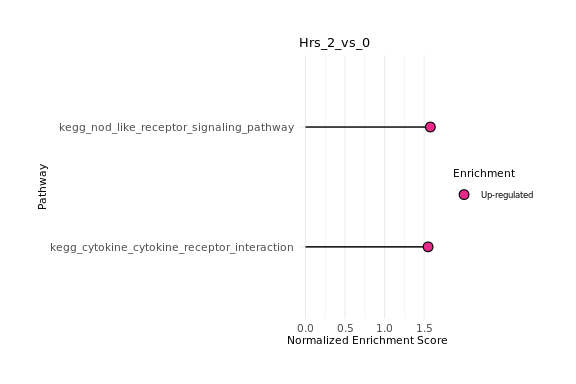
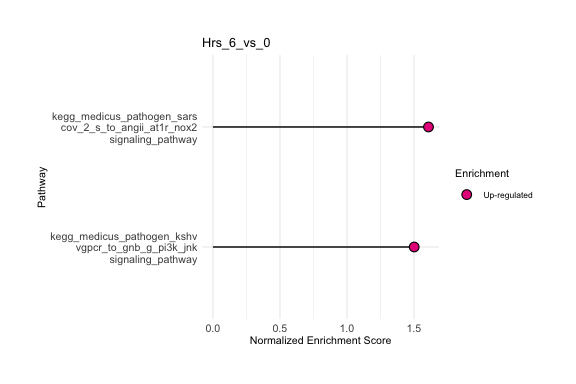
# version 0.0.38:     - Updated to work with latest version of msigdbr

diff --git a/README.md b/README.md
@@ -79,45 +79,55 @@ For others platforms, check out the HotgenesUniversal() function.
 ## Convert DESeq2 analysis into a Hotgenes Object
 
 ``` r
- require(Hotgenes)
+library("airway")
+library("DESeq2")
+library(Hotgenes)
 
-  # incase you wanted to include aliases for your genes
-  # requires a "Feature" column that contains gene names in expression matrix
-  dbCon <- org.Hs.eg.db::org.Hs.eg_dbconn()
-  sqlQuery <- "SELECT * FROM ENSEMBL, gene_info WHERE ENSEMBL._id == gene_info._id;"
-
-  ensembl_Symbol <- DBI::dbGetQuery(dbCon, sqlQuery) %>%
-  dplyr::select(c("Feature" = "symbol", "ensembl_id"))
+# load the data
+data("airway")
+se <- airway
 
 
-  # HotgenesDEseq2 ----------------------------------------------------------
-  require(DESeq2)
-  
-  # loading example data
-  dds_con_dir <- system.file("extdata",
-    "dds_con.Rdata",
-    package = "Hotgenes",
-    mustWork = TRUE
-  )
-  load(dds_con_dir)
+# in case you wanted to include aliases for your genes
+# requires a "Feature" column that contains gene names in expression matrix
+dbCon <- org.Hs.eg.db::org.Hs.eg_dbconn()
+sqlQuery <- "SELECT * FROM ENSEMBL, gene_info WHERE ENSEMBL._id == gene_info._id;"
 
-  # Example Expression data and coldata
-  cts <- DESeq2::counts(dds_con) %>% as.data.frame()
-  Design <- SummarizedExperiment::colData(dds_con) %>%
-    base::as.data.frame() %>%
-    dplyr::select_if(is.factor) %>%
-    dplyr::mutate(Time = as.numeric(levels(.data$Hrs))[.data$Hrs])
+ensembl_Symbol <- DBI::dbGetQuery(dbCon, sqlQuery) %>%
+  dplyr::select(c("Feature" = "ensembl_id", "symbol")) %>% 
+  tibble::tibble()
 
-  # set up DESeq2
-  model_DESeq <- eval(~ sh * Hrs)
+ensembl_Symbol
+```
 
-  dds <- DESeq2::DESeqDataSetFromMatrix(
-    countData = cts,
-    colData = Design,
-    design = model_DESeq
-  )
+    ## # A tibble: 45,689 × 2
+    ##   Feature         symbol
+    ##   <chr>           <chr> 
+    ## 1 ENSG00000121410 A1BG  
+    ## 2 ENSG00000175899 A2M   
+    ## 3 ENSG00000291190 A2MP1 
+    ## 4 ENSG00000171428 NAT1  
+    ## 5 ENSG00000156006 NAT2  
+    ## # ℹ 45,684 more rows
 
-  dds <- DESeq2::DESeq(dds)
+``` r
+# prepare DESeq2 object and model -----------------------------------------
+ddsSE <- DESeq2::DESeqDataSet(se, design = ~ cell + dex)
+ddsSE
+```
+
+    ## class: DESeqDataSet 
+    ## dim: 63677 8 
+    ## metadata(2): '' version
+    ## assays(1): counts
+    ## rownames(63677): ENSG00000000003 ENSG00000000005 ... ENSG00000273492 ENSG00000273493
+    ## rowData names(10): gene_id gene_name ... seq_coord_system symbol
+    ## colnames(8): SRR1039508 SRR1039509 ... SRR1039520 SRR1039521
+    ## colData names(9): SampleName cell ... Sample BioSample
+
+``` r
+# run DESeq2 analysis 
+dds <- DESeq2::DESeq(ddsSE)
 ```
 
     ## estimating size factors
@@ -133,21 +143,41 @@ For others platforms, check out the HotgenesUniversal() function.
     ## fitting model and testing
 
 ``` r
-  # Convert to Hotgenes Object
-
-  dds_Hotgenes <- HotgenesDEseq2(
-    DEseq2_object = dds,
-    lfcShrink_type = "apeglm",
-    contrasts = "sh_EWS_vs_Ctrl", 
-    ExpressionData = "vsd", 
-    Mapper = ensembl_Symbol
-  )
+# Convert to Hotgenes object
+Hotgenes_airway <- Hotgenes::HotgenesDEseq2(
+  DEseq2_object = dds, 
+  lfcShrink_type = "apeglm", 
+  # optional
+  Mapper = ensembl_Symbol,
+  ExpressionData = "vsd" )
 ```
 
     ## using 'apeglm' for LFC shrinkage. If used in published research, please cite:
     ##     Zhu, A., Ibrahim, J.G., Love, M.I. (2018) Heavy-tailed prior distributions for
     ##     sequence count data: removing the noise and preserving large differences.
     ##     Bioinformatics. https://doi.org/10.1093/bioinformatics/bty895
+
+    ## using 'apeglm' for LFC shrinkage. If used in published research, please cite:
+    ##     Zhu, A., Ibrahim, J.G., Love, M.I. (2018) Heavy-tailed prior distributions for
+    ##     sequence count data: removing the noise and preserving large differences.
+    ##     Bioinformatics. https://doi.org/10.1093/bioinformatics/bty895
+    ## using 'apeglm' for LFC shrinkage. If used in published research, please cite:
+    ##     Zhu, A., Ibrahim, J.G., Love, M.I. (2018) Heavy-tailed prior distributions for
+    ##     sequence count data: removing the noise and preserving large differences.
+    ##     Bioinformatics. https://doi.org/10.1093/bioinformatics/bty895
+    ## using 'apeglm' for LFC shrinkage. If used in published research, please cite:
+    ##     Zhu, A., Ibrahim, J.G., Love, M.I. (2018) Heavy-tailed prior distributions for
+    ##     sequence count data: removing the noise and preserving large differences.
+    ##     Bioinformatics. https://doi.org/10.1093/bioinformatics/bty895
+
+``` r
+# shiny Hotgenes ----------------------------------------------------------
+if(FALSE){
+# switch FALSE to TRUE   
+Hotgenes::Shiny_Hotgenes(Hotgenes_airway)
+  
+}
+```
 
 ## Convert limma DE analysis into Hotgenes Object
 
@@ -471,13 +501,12 @@ fit_Hotgenes %>%
     ## [1] "NFE2L2" "KEAP1"  "PDGFA"  "HDAC4"  "OXER1"  "GAPDH"  "MEF2C" 
     ## 
     ## $Intsect$Hrs_6_vs_0
-    ##  [1] "CXCL5"  "STAT2"  "NR3C1"  "MAP3K1" "HSPB2"  "MAPK8"  "DAXX"   "MKNK1"  "MAP2K6" "IL1B"   "BCL6"   "TLR3"  
-    ## [13] "GRB2"   "IL6R"   "IL15"   "CREB1"  "IL1RN"  "RELA"   "IFIT3"  "MAP3K5" "TGFB3"  "TGFB2"  "IL1A"   "CCL20" 
-    ## [25] "PGK1"   "MAPK3" 
+    ##  [1] "CXCL5"  "STAT2"  "NR3C1"  "MAP3K1" "HSPB2"  "MAPK8"  "DAXX"   "MKNK1"  "MAP2K6" "IL1B"   "BCL6"   "TLR3"   "GRB2"  
+    ## [14] "IL6R"   "IL15"   "CREB1"  "IL1RN"  "RELA"   "IFIT3"  "MAP3K5" "TGFB3"  "TGFB2"  "IL1A"   "CCL20"  "PGK1"   "MAPK3" 
     ## 
     ## $Intsect$sh_EWS_vs_Ctrl
-    ##  [1] "HIF1A"  "C3"     "RAC1"   "GNB1"   "TUBB"   "BCL2L1" "CSF1"   "PTGER3" "ROCK2"  "MX2"    "HMGN1"  "CLTC"  
-    ## [13] "GNAQ"   "LY96"   "CD40"   "CFD"    "HRAS"   "RHOA"   "HPRT1"  "TCF4"   "MX1"    "OAS2"   "LTB4R2"
+    ##  [1] "HIF1A"  "C3"     "RAC1"   "GNB1"   "TUBB"   "BCL2L1" "CSF1"   "PTGER3" "ROCK2"  "MX2"    "HMGN1"  "CLTC"   "GNAQ"  
+    ## [14] "LY96"   "CD40"   "CFD"    "HRAS"   "RHOA"   "HPRT1"  "TCF4"   "MX1"    "OAS2"   "LTB4R2"
     ## 
     ## $Intsect$`Hrs_2_vs_0:Hrs_6_vs_0`
     ##  [1] "CXCL8"   "TNFAIP3" "CXCL1"   "IL11"    "PTGS2"   "DDIT3"   "IFIT2"   "TGFBR1"  "MAFF"    "CXCR4"   "MAFK"   
@@ -495,8 +524,8 @@ fit_Hotgenes %>%
     ## 
     ## 
     ## $Names
-    ## [1] "Hrs_2_vs_0:Hrs_6_vs_0"                "sh_EWS_vs_Ctrl:Hrs_2_vs_0"           
-    ## [3] "sh_EWS_vs_Ctrl:Hrs_6_vs_0"            "sh_EWS_vs_Ctrl:Hrs_2_vs_0:Hrs_6_vs_0"
+    ## [1] "Hrs_2_vs_0:Hrs_6_vs_0"                "sh_EWS_vs_Ctrl:Hrs_2_vs_0"            "sh_EWS_vs_Ctrl:Hrs_6_vs_0"           
+    ## [4] "sh_EWS_vs_Ctrl:Hrs_2_vs_0:Hrs_6_vs_0"
 
 ### Identify key features using PCA and clustering
 
@@ -598,6 +627,8 @@ DEphe(fit_Hotgenes,
       annotations = c("Hrs", "sh"))
 ```
 
+![](man/figures/README-heatmap_1-1.png)<!-- -->
+
 ``` r
 # change labels to ensembl_id
 DEphe(fit_Hotgenes,
@@ -610,13 +641,15 @@ DEphe(fit_Hotgenes,
       annotations = c("Hrs", "sh"))
 ```
 
+![](man/figures/README-heatmap_2-1.png)<!-- -->
+
 ### Run GSEA using msigdbr genesets
 
 ``` r
 # get geneset
 H_paths <- msigdbr_wrapper(
     species = "human",
-    set = "CP:KEGG",
+    set = "CP:KEGG_MEDICUS",
     gene_col = "gene_symbol"
   )
 
@@ -624,7 +657,7 @@ H_paths <- msigdbr_wrapper(
   InputRanks <- fit_Hotgenes %>%
     DE(
       Report = "Ranks",
-      contrasts = "Hrs_2_vs_0",
+      contrasts = "Hrs_6_vs_0",
       Rank_name = "Feature",
       padj_cut = 0.1
     )
@@ -640,88 +673,80 @@ H_paths <- msigdbr_wrapper(
   )
 ```
 
-    ## [1] "Hrs_2_vs_0"
-    ##   |                                                                                                                    |                                                                                                            |   0%  |                                                                                                                    |======================================================                                                      |  50%  |                                                                                                                    |============================================================================================================| 100%
+    ## [1] "Hrs_6_vs_0"
+    ##   |                                                                                                                         |                                                                                                                 |   0%  |                                                                                                                         |========================================================                                                         |  50%  |                                                                                                                         |=================================================================================================================| 100%
 
 ``` r
   # Get details for all
   Out_GSEA %>%
     fgsea_Results(
-      contrasts = "Hrs_2_vs_0",
+      contrasts = "Hrs_6_vs_0",
       padj_cut = 0.2,
       mode = "D"
     )
 ```
 
-    ## $Hrs_2_vs_0
-    ## # A tibble: 5 × 9
-    ##   pathway                                        pval   padj log2err    ES   NES  size leadingEdge sign_NES
-    ##   <chr>                                         <dbl>  <dbl>   <dbl> <dbl> <dbl> <int> <list>         <dbl>
-    ## 1 kegg_nod_like_receptor_signaling_pathway    0.00969 0.0737   0.381 0.770  1.58     9 <chr [6]>          1
-    ## 2 kegg_cytokine_cytokine_receptor_interaction 0.0184  0.0737   0.352 0.708  1.55    14 <chr [9]>          1
-    ## 3 kegg_chemokine_signaling_pathway            0.0517  0.135    0.219 0.734  1.44     7 <chr [7]>          1
-    ## 4 kegg_jak_stat_signaling_pathway             0.0779  0.135    0.181 0.748  1.39     5 <chr [2]>          1
-    ## 5 kegg_toll_like_receptor_signaling_pathway   0.0844  0.135    0.174 0.742  1.38     5 <chr [3]>          1
+    ## $Hrs_6_vs_0
+    ## # A tibble: 3 × 9
+    ##   pathway                                                        pval   padj log2err    ES   NES  size leadingEdge sign_NES
+    ##   <chr>                                                         <dbl>  <dbl>   <dbl> <dbl> <dbl> <int> <list>         <dbl>
+    ## 1 kegg_medicus_pathogen_sars_cov_2_s_to_angii_at1r_nox2_signa… 0.0116 0.0809   0.381 0.767  1.61     7 <chr [4]>          1
+    ## 2 kegg_medicus_pathogen_kshv_vgpcr_to_gnb_g_pi3k_jnk_signalin… 0.0412 0.128    0.322 0.776  1.50     5 <chr [4]>          1
+    ## 3 kegg_medicus_pathogen_hsv_gd_to_hvem_nfkb_signaling_pathway  0.0549 0.128    0.228 0.739  1.43     5 <chr [4]>          1
 
 ``` r
   # Or for one
   Out_GSEA %>%
     fgsea_Results(
-      contrasts = "Hrs_2_vs_0",
+      contrasts = "Hrs_6_vs_0",
       padj_cut = 0.2,
       mode = "leadingEdge"
     )
 ```
 
-    ## $Hrs_2_vs_0
-    ## $Hrs_2_vs_0$kegg_nod_like_receptor_signaling_pathway
-    ## [1] "IL6"     "CXCL8"   "TNFAIP3" "CXCL1"   "CCL2"    "CXCL2"  
+    ## $Hrs_6_vs_0
+    ## $Hrs_6_vs_0$kegg_medicus_pathogen_sars_cov_2_s_to_angii_at1r_nox2_signaling_pathway
+    ## [1] "CXCL8" "CCL2"  "IL6"   "NFKB1"
     ## 
-    ## $Hrs_2_vs_0$kegg_cytokine_cytokine_receptor_interaction
-    ## [1] "IL6"    "CXCL8"  "CXCL1"  "IL11"   "CCL2"   "CXCL3"  "CXCL2"  "TGFBR1" "CXCR4" 
+    ## $Hrs_6_vs_0$kegg_medicus_pathogen_kshv_vgpcr_to_gnb_g_pi3k_jnk_signaling_pathway
+    ## [1] "CXCL8" "IL6"   "NFKB1" "MAPK8"
     ## 
-    ## $Hrs_2_vs_0$kegg_chemokine_signaling_pathway
-    ## [1] "CXCL8" "CXCL1" "CCL2"  "CXCL3" "CXCL2" "CXCR4" "NFKB1"
-    ## 
-    ## $Hrs_2_vs_0$kegg_jak_stat_signaling_pathway
-    ## [1] "IL6"  "IL11"
-    ## 
-    ## $Hrs_2_vs_0$kegg_toll_like_receptor_signaling_pathway
-    ## [1] "IL6"   "CXCL8" "JUN"
+    ## $Hrs_6_vs_0$kegg_medicus_pathogen_hsv_gd_to_hvem_nfkb_signaling_pathway
+    ## [1] "CCL2"  "NFKB1" "BIRC2" "TRAF2"
 
 ``` r
   # Generate a summary plot
   Out_GSEA %>%
     GSEA_Plots(
-      contrasts = "Hrs_2_vs_0",
+      contrasts = "Hrs_6_vs_0",
       padj_cut = 0.2,
       width = 30,
       Topn = 2
     )
 ```
 
-    ## $Hrs_2_vs_0
+    ## $Hrs_6_vs_0
 
 ![](man/figures/README-GSEA_1-1.png)<!-- -->
 
 ``` r
   # plotEnrichment_
   plotEnrichment_(
-    Out_GSEA, "Hrs_2_vs_0",
-    "kegg_nod_like_receptor_signaling_pathway"
+    Out_GSEA, "Hrs_6_vs_0",
+    "kegg_medicus_pathogen_sars_cov_2_s_to_angii_at1r_nox2_signaling_pathway"
   )
 ```
 
-    ## leading edge genes for kegg_nod_like_receptor_signaling_pathway
+    ## leading edge genes for kegg_medicus_pathogen_sars_cov_2_s_to_angii_at1r_nox2_signaling_pathway
 
-    ## c("IL6", "CXCL8", "TNFAIP3", "CXCL1", "CCL2", "CXCL2")
+    ## c("CXCL8", "CCL2", "IL6", "NFKB1")
 
 ![](man/figures/README-GSEA_1-2.png)<!-- -->
 
 ### Or use the HotgeneSets() function for gsva
 
 ``` r
-choice_set <- "CP:KEGG"
+choice_set <- "CP:KEGG_MEDICUS"
 choice_id <- "gene_symbol"
   
 gsList <- msigdbr_wrapper(
@@ -744,12 +769,14 @@ gsList <- msigdbr_wrapper(
 
     ## [1] "using Feature col"
     ## [1] "building mapper"
-    ## Estimating ssGSEA scores for 93 gene sets.
+    ## Estimating ssGSEA scores for 235 gene sets.
     ## [1] "Calculating ranks..."
     ## [1] "Calculating absolute values from ranks..."
-    ##   |                                                                                                                    |                                                                                                            |   0%  |                                                                                                                    |=========                                                                                                   |   8%  |                                                                                                                    |==================                                                                                          |  17%  |                                                                                                                    |===========================                                                                                 |  25%  |                                                                                                                    |====================================                                                                        |  33%  |                                                                                                                    |=============================================                                                               |  42%  |                                                                                                                    |======================================================                                                      |  50%  |                                                                                                                    |===============================================================                                             |  58%  |                                                                                                                    |========================================================================                                    |  67%  |                                                                                                                    |=================================================================================                           |  75%  |                                                                                                                    |==========================================================================================                  |  83%  |                                                                                                                    |===================================================================================================         |  92%  |                                                                                                                    |============================================================================================================| 100%
+    ##   |                                                                                                                         |                                                                                                                 |   0%  |                                                                                                                         |=========                                                                                                        |   8%  |                                                                                                                         |===================                                                                                              |  17%  |                                                                                                                         |============================                                                                                     |  25%  |                                                                                                                         |======================================                                                                           |  33%  |                                                                                                                         |===============================================                                                                  |  42%  |                                                                                                                         |========================================================                                                         |  50%  |                                                                                                                         |==================================================================                                               |  58%  |                                                                                                                         |===========================================================================                                      |  67%  |                                                                                                                         |=====================================================================================                            |  75%  |                                                                                                                         |==============================================================================================                   |  83%  |                                                                                                                         |========================================================================================================         |  92%  |                                                                                                                         |=================================================================================================================| 100%
     ## 
     ## [1] "Normalizing..."
+
+    ## using geneset weights
 
 ``` r
   HotgeneSets_out
@@ -761,11 +788,11 @@ gsList <- msigdbr_wrapper(
     ## Differential expression (default thresholds): 
     ## |contrast       | total|
     ## |:--------------|-----:|
-    ## |Hrs_2_vs_0     |    45|
-    ## |Hrs_6_vs_0     |    54|
-    ## |sh_EWS_vs_Ctrl |    29|
-    ## |shEWS.Hrs2     |     0|
-    ## |shEWS.Hrs6     |     0|
+    ## |Hrs_2_vs_0     |   151|
+    ## |Hrs_6_vs_0     |   181|
+    ## |sh_EWS_vs_Ctrl |    43|
+    ## |shEWS.Hrs2     |    54|
+    ## |shEWS.Hrs6     |    42|
     ## 
     ## Available feature mapping:  Feature, original_features, size 
     ## ExpressionSlots:  ssgsea 
